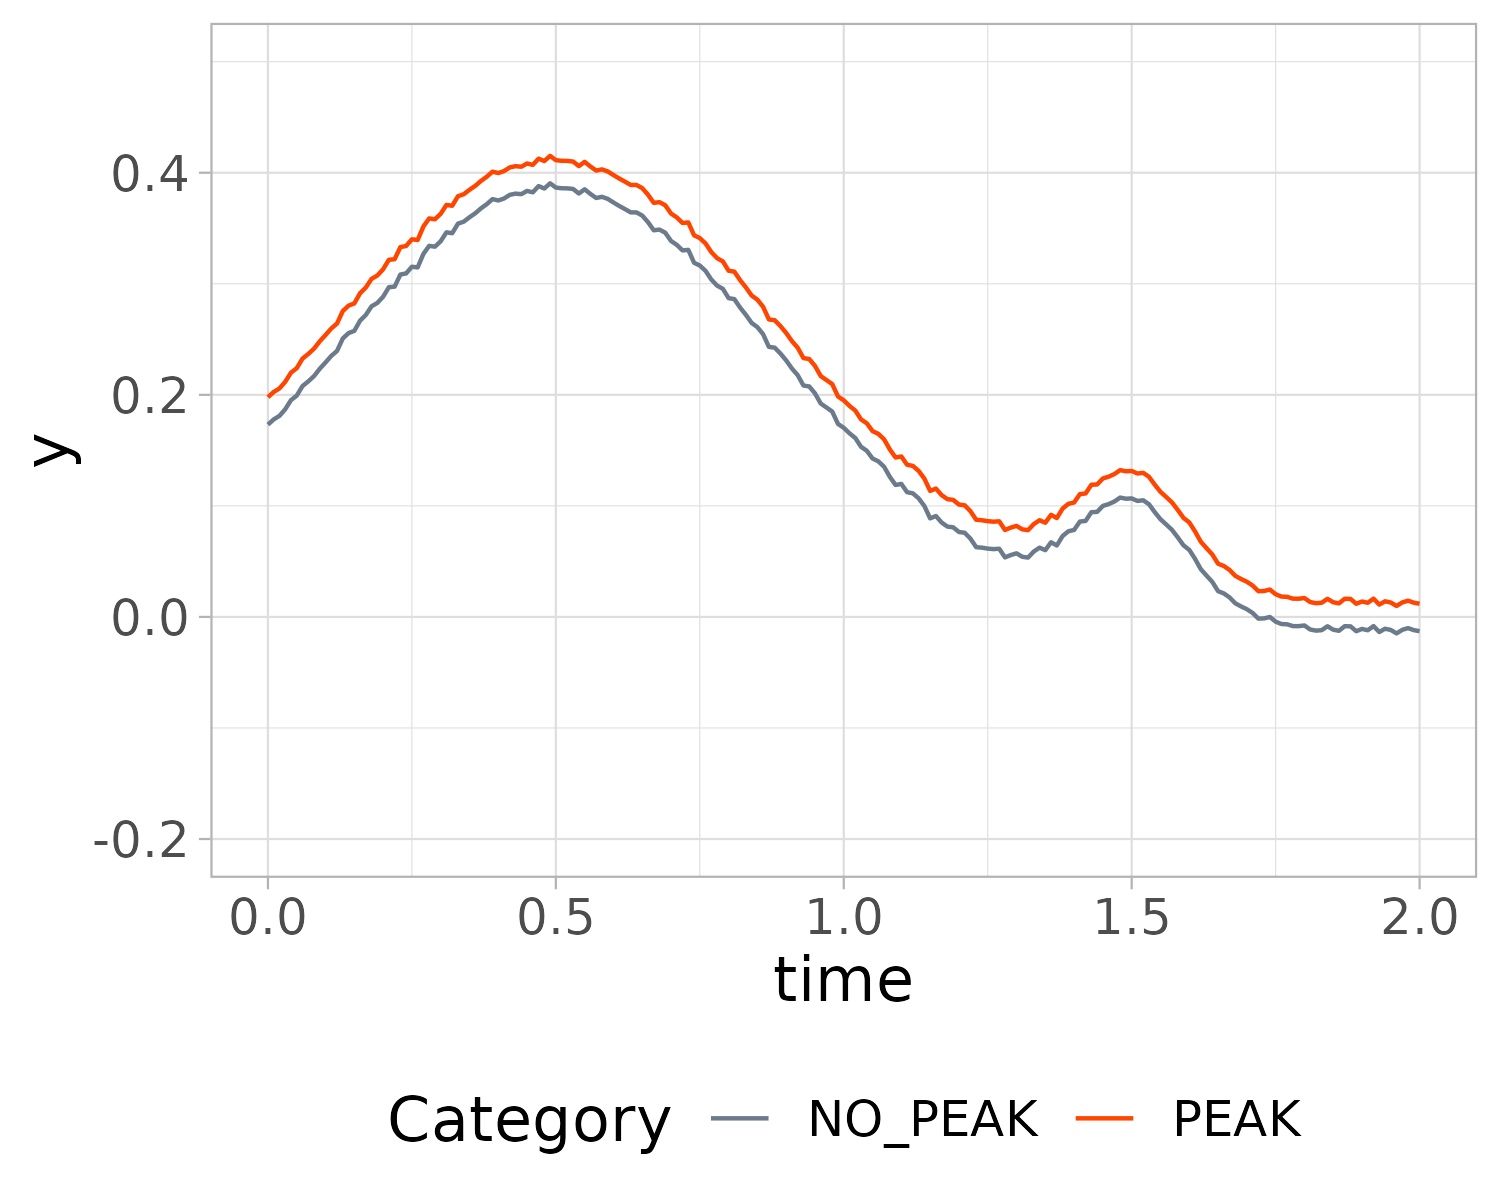
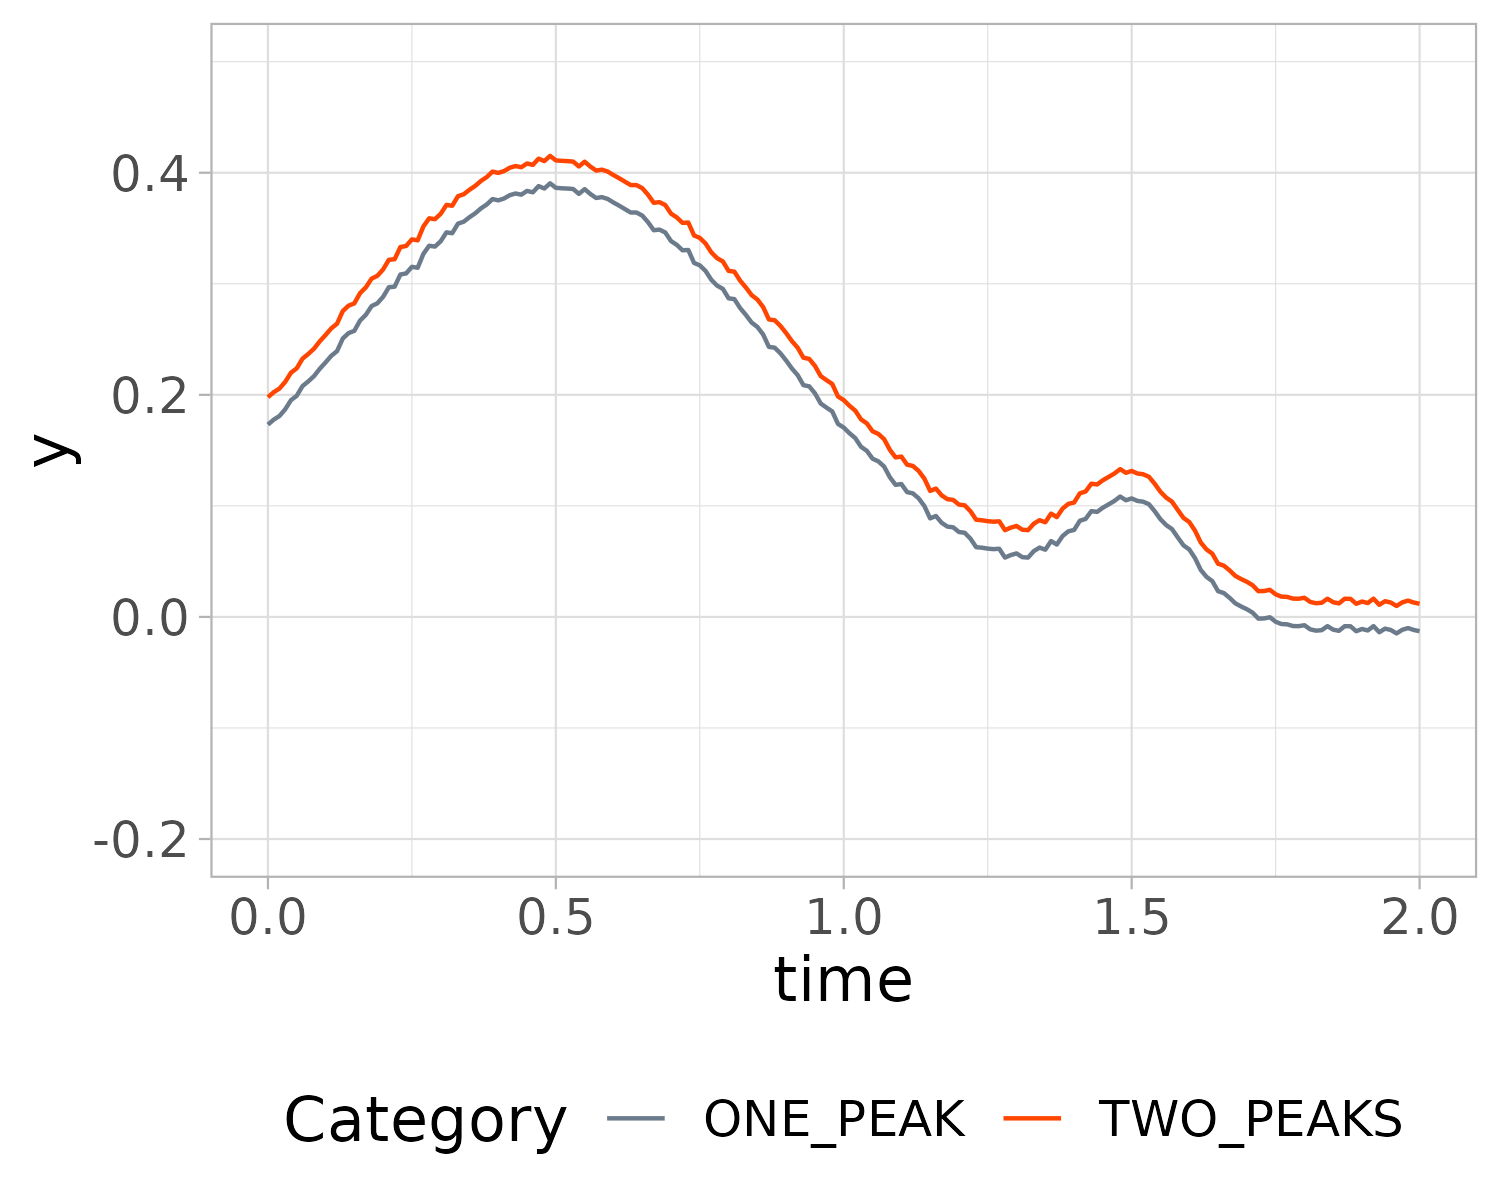
draft versino of ppt day1

Changed region(s): [[0.184, 0.8942, 0.7053, 0.9558], [0.736, 0.8942, 0.9507, 0.9558]]

diff --git a/presentations/OrthogonalProjections.html b/presentations/OrthogonalProjections.html
@@ -413,7 +413,7 @@ Michele Gubian
 <div class="quarto-layout-panel">
 <div class="quarto-layout-row quarto-layout-valign-top">
 <div class="fragment quarto-layout-cell" style="flex-basis: 50.0%;justify-content: center;">
-<p><img data-src="plots/curves.png"></p>
+<p><img data-src="plots/ex1D.1.curves.png"></p>
 </div>
 <div class="quarto-layout-cell" style="flex-basis: 50.0%;justify-content: center;">
 <ul>
@@ -534,7 +534,7 @@ C-&gt;D
 <div class="fragment">
 <!-- -->
 <h3 id="fpca-lmer">FPCA + LMER</h3>
-<p><img data-src="plots/emmCurves_PCs1.png"></p>
+<p><img data-src="plots/ex1D.1.pred_curves.png"></p>
 </div>
 </div>
 </div>
@@ -1132,7 +1132,7 @@ B-&gt;C
 <section id="a-curve-dataset" class="slide level2">
 <h2>A curve dataset</h2>
 
-<img data-src="plots/curves.png" class="r-stretch"></section>
+<img data-src="plots/ex1D.1.curves.png" class="r-stretch"></section>
 <section id="subtract-the-mean-curve" class="slide level2">
 <h2>Subtract the mean curve</h2>
 <div class="quarto-layout-panel">
@@ -1230,7 +1230,7 @@ B-&gt;C
 </div>
 </section>
 <section id="fit-a-regression-model-on-s1" class="slide level2">
-<h2>Fit a regression model on s1</h2>
+<h2>Fit a regression model on s<sub>1</sub></h2>
 <div class="cell">
 <div class="sourceCode cell-code" id="cb2"><pre class="sourceCode numberSource r number-lines code-with-copy"><code class="sourceCode r"><span id="cb2-1"><a href="#cb2-1"></a>mod <span class="ot">&lt;-</span> <span class="fu">lm</span>(s1 <span class="sc">~</span> Category, <span class="at">data =</span> polyScores)</span>
 <span id="cb2-2"><a href="#cb2-2"></a><span class="fu">summary</span>(mod)</span></code><button title="Copy to Clipboard" class="code-copy-button"><i class="bi"></i></button></pre></div>
@@ -1259,7 +1259,7 @@ F-statistic:  2440 on 1 and 96 DF,  p-value: &lt; 2.2e-16</code></pre>
 </div>
 </section>
 <section id="model-predictions-on-s1" class="slide level2">
-<h2>Model predictions on s1</h2>
+<h2>Model predictions on s<sub>1</sub></h2>
 <div class="cell">
 <div class="sourceCode cell-code" id="cb4"><pre class="sourceCode numberSource r number-lines code-with-copy"><code class="sourceCode r"><span id="cb4-1"><a href="#cb4-1"></a><span class="fu">library</span>(emmeans)</span>
 <span id="cb4-2"><a href="#cb4-2"></a><span class="fu">emmeans</span>(mod, pairwise <span class="sc">~</span> Category)</span></code><button title="Copy to Clipboard" class="code-copy-button"><i class="bi"></i></button></pre></div>
@@ -1278,19 +1278,19 @@ $contrasts
 </div>
 </section>
 <section id="reconstruct-predicted-curves-from-s1" class="slide level2">
-<h2>Reconstruct predicted curves from s1</h2>
-<p><span class="math display">\[ f_{PEAK}(t) = \mu(t) + s_{1, PEAK} \cdot B1(t)\]</span> <span class="math display">\[ f_{NO\_PEAK}(t) = \mu(t) + s_{1, NO\_PEAK} \cdot B1(t)\]</span></p>
+<h2>Reconstruct predicted curves from s<sub>1</sub></h2>
+<p><span class="math display">\[ f_{ONE\_PEAK}(t) = \mu(t) + s_{1, ONE\_PEAK} \cdot B1(t)\]</span> <span class="math display">\[ f_{TWO\_PEAKS}(t) = \mu(t) + s_{1, TWO\_PEAKS} \cdot B1(t)\]</span></p>
 </section>
 <section id="reconstruct-predicted-curves-from-s1-1" class="slide level2">
-<h2>Reconstruct predicted curves from s1</h2>
+<h2>Reconstruct predicted curves from s<sub>1</sub></h2>
 
 <img data-src="plots/emmCurves_Poly_s1.png" class="r-stretch"></section>
 <section id="reconstruct-predicted-curves-from-s1-s2-s3-s4" class="slide level2">
-<h2>Reconstruct predicted curves from s1, s2, s3, s4</h2>
-<p><span class="math display">\[ f_{PEAK}(t) = \mu(t) + \sum_{k \in \{1, 2, 3, 4\}} s_{k, PEAK} \cdot Bk(t)\]</span> <span class="math display">\[ f_{NO\_PEAK}(t) = \mu(t) + \sum_{k \in \{1, 2, 3, 4\}} s_{k, NO\_PEAK} \cdot Bk(t)\]</span></p>
+<h2>Reconstruct predicted curves from s<sub>1</sub>, s<sub>2</sub>, s<sub>3</sub>, s<sub>4</sub></h2>
+<p><span class="math display">\[ f_{ONE\_PEAK}(t) = \mu(t) + \sum_{k \in \{1, 2, 3, 4\}} s_{k, ONE\_PEAK} \cdot Bk(t)\]</span> <span class="math display">\[ f_{TWO\_PEAKS}(t) = \mu(t) + \sum_{k \in \{1, 2, 3, 4\}} s_{k, TWO\_PEAKS} \cdot Bk(t)\]</span></p>
 </section>
 <section id="reconstruct-predicted-curves-from-s1-s2-s3-s4-1" class="slide level2">
-<h2>Reconstruct predicted curves from s1, s2, s3, s4</h2>
+<h2>Reconstruct predicted curves from s<sub>1</sub>, s<sub>2</sub>, s<sub>3</sub>, s<sub>4</sub></h2>
 
 <img data-src="plots/emmCurves_Poly_s1234.png" class="r-stretch"></section></section>
 <section>
@@ -1391,7 +1391,7 @@ $contrasts
 
 <img data-src="plots/ex1D.1.FPCA_curves.png" class="r-stretch"></section>
 <section id="fit-a-regression-model-on-s1-1" class="slide level2">
-<h2>Fit a regression model on s1</h2>
+<h2>Fit a regression model on s<sub>1</sub></h2>
 <div class="cell">
 <div class="sourceCode cell-code" id="cb6"><pre class="sourceCode numberSource r number-lines code-with-copy"><code class="sourceCode r"><span id="cb6-1"><a href="#cb6-1"></a>mod <span class="ot">&lt;-</span> <span class="fu">lm</span>(s1 <span class="sc">~</span> Category, <span class="at">data =</span> pcScores)</span>
 <span id="cb6-2"><a href="#cb6-2"></a><span class="fu">emmeans</span>(mod, pairwise <span class="sc">~</span> Category)</span></code><button title="Copy to Clipboard" class="code-copy-button"><i class="bi"></i></button></pre></div>
@@ -1410,13 +1410,51 @@ $contrasts
 </div>
 </section>
 <section id="reconstruct-predicted-curves-from-s1-2" class="slide level2">
-<h2>Reconstruct predicted curves from s1</h2>
-<p><span class="math display">\[ f_{PEAK}(t) = \mu(t) + s_{1, PEAK} \cdot PC1(t)\]</span> <span class="math display">\[ f_{NO\_PEAK}(t) = \mu(t) + s_{1, NO\_PEAK} \cdot PC1(t)\]</span></p>
+<h2>Reconstruct predicted curves from s<sub>1</sub></h2>
+<p><span class="math display">\[ f_{ONE\_PEAK}(t) = \mu(t) + s_{1, ONE\_PEAK} \cdot PC1(t)\]</span> <span class="math display">\[ f_{TWO\_PEAKS}(t) = \mu(t) + s_{1, TWO\_PEAKS} \cdot PC1(t)\]</span></p>
 </section>
 <section id="reconstruct-predicted-curves-from-s1-3" class="slide level2">
-<h2>Reconstruct predicted curves from s1</h2>
+<h2>Reconstruct predicted curves from s<sub>1</sub></h2>
 
-<img data-src="plots/emmCurves_PCs1.png" class="r-stretch"></section></section>
+<img data-src="plots/ex1D.1.pred_curves.png" class="r-stretch"></section>
+<section id="three-variances" class="slide level2">
+<h2>Three Variances</h2>
+<div style="font-size: 80%;">
+<div>
+<ol type="1">
+<li class="fragment">PCs are ordered by decreasing prop. of explained variance</li>
+<li class="fragment">Score variance (or st. dev.)</li>
+<li class="fragment">Prop. of variance explained by a regression model predicting a score (<span class="math inline">\(R^2\)</span>)</li>
+</ol>
+<ul>
+<li class="fragment"><span style="color:red">These three variances are not related to one another</span>
+<ul>
+<li class="fragment">e.g.&nbsp;PC7 explains 0.1% of the var. but a LMER predicting <span class="math inline">\(s_7\)</span> from a given set of predictors (unknown to FPCA) explains 90% of the variance</li>
+</ul></li>
+</ul>
+</div>
+</div>
+</section>
+<section id="relation-to-pca" class="slide level2">
+<h2>Relation to PCA</h2>
+<div>
+<div style="font-size: 80%;">
+<ul>
+<li class="fragment">Functional PCA extends PCA from the domain of vectors to the domain of functions</li>
+<li class="fragment">The key difference is in the definition of scalar product between functions instead of vectors
+<ul>
+<li class="fragment">PCs are functions instead of vectors</li>
+</ul></li>
+<li class="fragment">All the other concepts stay the same
+<ul>
+<li class="fragment">PCs are ordered by decreasing proportion of explained variance</li>
+<li class="fragment">Input data are approximated by linear combinations of PCs determined by scores</li>
+<li class="fragment">PCs are orthogonal to one another</li>
+</ul></li>
+</ul>
+</div>
+</div>
+</section></section>
 <section>
 <section id="multi-dimensional-fpca" class="title-slide slide level1 center">
 <h1>Multi-dimensional FPCA</h1>
